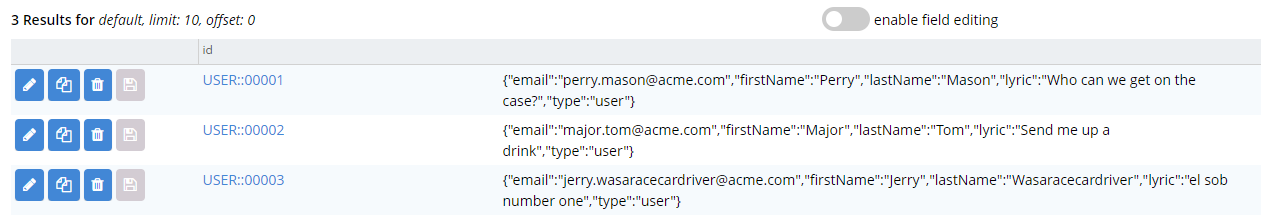
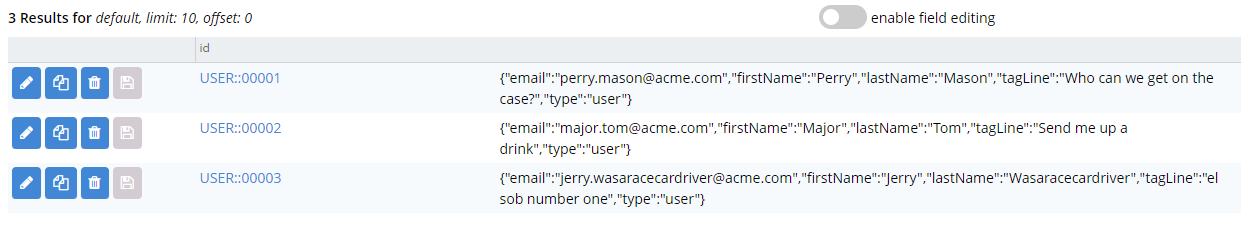
DOC-6275 feedback from benjamin on the two .net developer journey quick starts

diff --git a/modules/getting-started/examples/quickstart-netcore31-cb65/FirstQuery/Program.cs b/modules/getting-started/examples/quickstart-netcore31-cb65/FirstQuery/Program.cs
@@ -28,19 +28,19 @@ namespace FirstQuery
                 Email = "perry.mason@acme.com",
                 FirstName = "Perry",
                 LastName = "Mason",
-                Lyric = "Who can we get on the case?"
+                TagLine = "Who can we get on the case?"
             };
             var user00002 = new User {
                 Email = "major.tom@acme.com",
                 FirstName = "Major",
                 LastName = "Tom",
-                Lyric = "Send me up a drink"
+                TagLine = "Send me up a drink"
             };
             var user00003 = new User {
                 Email = "jerry.wasaracecardriver@acme.com",
                 FirstName = "Jerry",
                 LastName = "Wasaracecardriver",
-                Lyric = "el sob number one"
+                TagLine = "el sob number one"
             };                             
             bucket.Upsert("USER::00001", user00001);
             bucket.Upsert("USER::00002", user00002);
@@ -53,7 +53,7 @@ namespace FirstQuery
             foreach(var result in results)
             {
                 Console.WriteLine($"{result.FirstName} {result.LastName} {result.Email}");
-                Console.WriteLine($"{result.Lyric}");
+                Console.WriteLine($"{result.TagLine}");
                 Console.WriteLine();
             }
             // end::linq[]
@@ -68,7 +68,7 @@ namespace FirstQuery
         public string Email {get;set;}
         public string FirstName {get;set;}
         public string LastName {get;set;}
-        public string Lyric {get;set;}
+        public string TagLine {get;set;}
         public string Type {get;} = "user";
     }
     // end::user[]

diff --git a/modules/getting-started/examples/quickstart-aspnetcore31-cb65/quickstart-aspnetcore31-cb65/Controllers/UserController.cs b/modules/getting-started/examples/quickstart-aspnetcore31-cb65/quickstart-aspnetcore31-cb65/Controllers/UserController.cs
@@ -8,12 +8,12 @@ using Microsoft.AspNetCore.Mvc;
 namespace QuickStart.Controllers
 {
     [ApiController]
-    public class WeatherForecastController : ControllerBase
+    public class UserController : ControllerBase
     {
         // tag::ctor[]
         private readonly IBucket _bucket;
 
-        public WeatherForecastController(IBucketProvider bucketProvider)
+        public UserController(IBucketProvider bucketProvider)
         {
             _bucket = bucketProvider.GetBucket("default");
         }
@@ -22,12 +22,12 @@ namespace QuickStart.Controllers
         // tag::getdata[]
         [HttpGet]
         [Route("/")]
-        public List<WeatherForecast> GetData(int temperatureC)
+        public List<User> GetData(string email)
         {
-            var n1ql = "SELECT w.* FROM default w WHERE w.temperatureC = $temperatureC";
+            var n1ql = "SELECT d.* FROM default d WHERE d.email = $email";
             var query = QueryRequest.Create(n1ql);
-            query.AddNamedParameter("$temperatureC", temperatureC);
-            var result = _bucket.Query<WeatherForecast>(query);
+            query.AddNamedParameter("$email", email);
+            var result = _bucket.Query<User>(query);
             return result.Rows;
         }
         // end::getdata[]
@@ -35,7 +35,7 @@ namespace QuickStart.Controllers
         // tag::insert[]
         [HttpPost]
         [Route("/")]
-        public string InsertData(WeatherForecast forecast)
+        public string InsertData(User forecast)
         {
             var key = Guid.NewGuid().ToString();
             _bucket.Insert(key, forecast);

diff --git a/modules/getting-started/examples/quickstart-aspnetcore31-cb65/quickstart-aspnetcore31-cb65/Startup.cs b/modules/getting-started/examples/quickstart-aspnetcore31-cb65/quickstart-aspnetcore31-cb65/Startup.cs
@@ -21,7 +21,7 @@ namespace QuickStart
         {
             services.AddControllers();
 
-            services.AddCouchbase(Configuration.GetSection("Couchbase"));
+            services.AddCouchbase(Configuration.GetSection("Couchbase")); // <1>
         }
 
         // This method gets called by the runtime. Use this method to configure the HTTP request pipeline.
@@ -43,7 +43,7 @@ namespace QuickStart
                 endpoints.MapControllers();
             });
 
-            appLifetime.ApplicationStopped.Register(() =>
+            appLifetime.ApplicationStopped.Register(() => // <2>
             {
                 app.ApplicationServices.GetRequiredService<ICouchbaseLifetimeService>().Close();
             });

diff --git a/modules/getting-started/examples/quickstart-aspnetcore31-cb65/quickstart-aspnetcore31-cb65/User.cs b/modules/getting-started/examples/quickstart-aspnetcore31-cb65/quickstart-aspnetcore31-cb65/User.cs
@@ -1,0 +1,13 @@
+namespace QuickStart
+{
+    // tag::user[]
+    public class User
+    {
+        public string FirstName { get; set; }
+        public string LastName { get; set; }
+        public string Email { get; set; }
+        public string TagLine { get; set; }
+        public string Type => "User";
+    }
+    // end::user[]
+}
